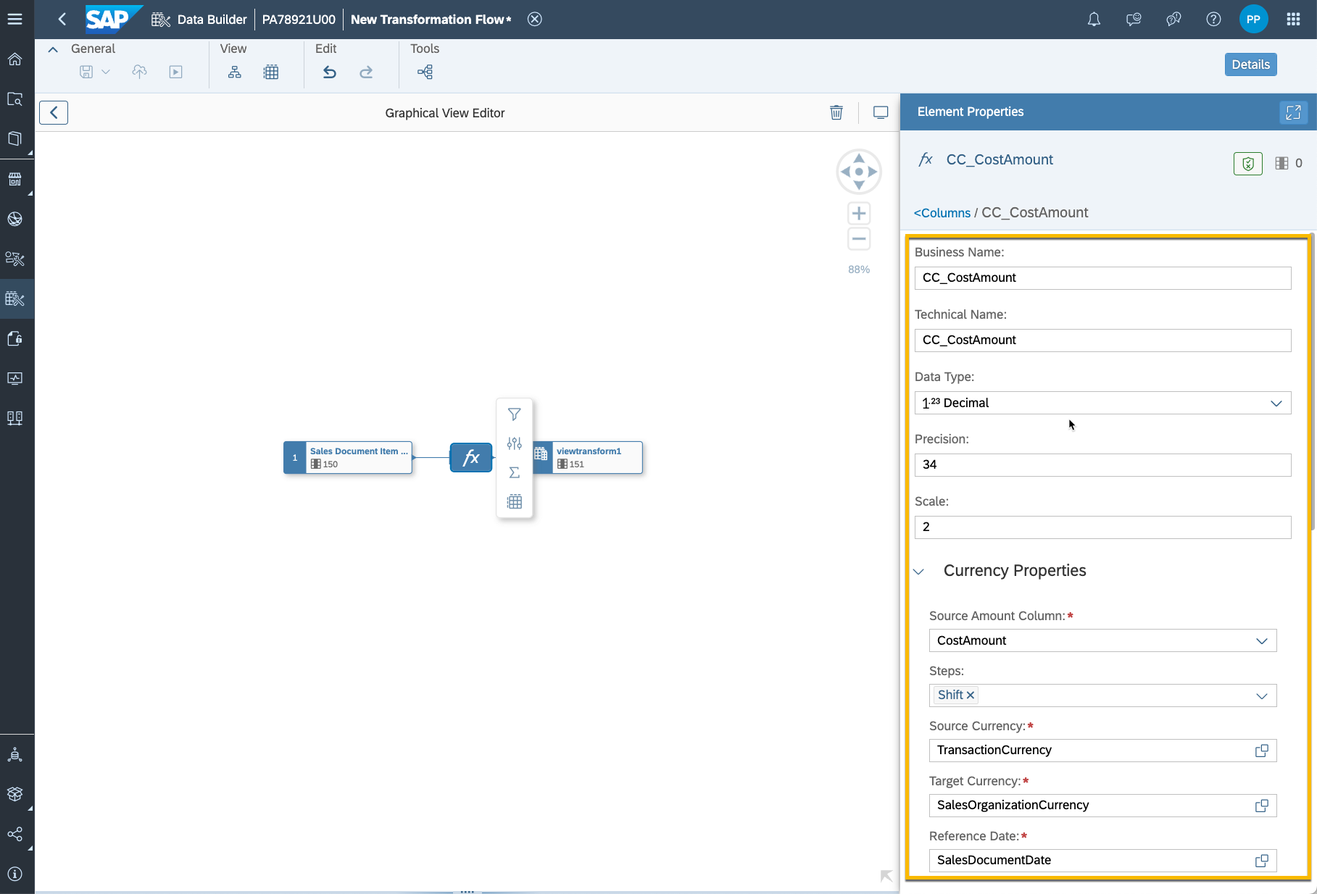
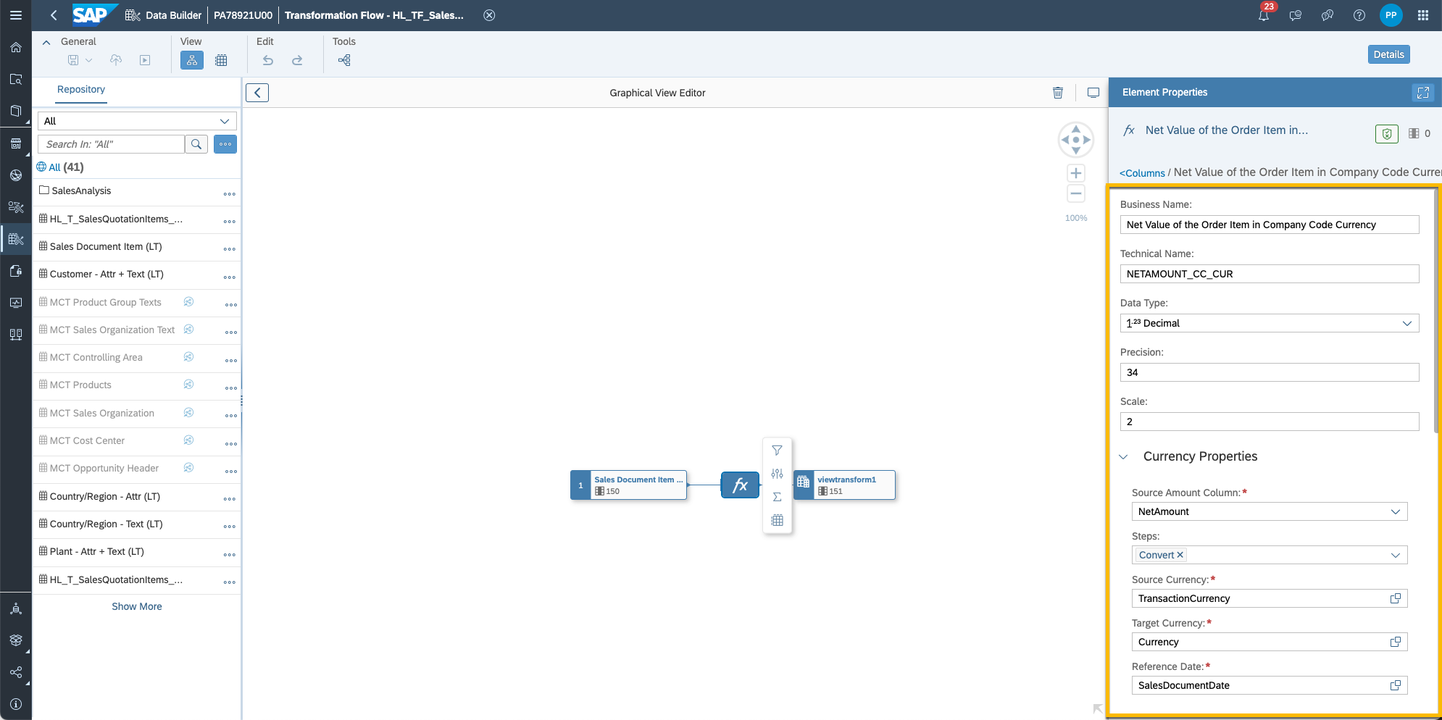
moving from internal

diff --git a/tutorials/partner-workshop-content/dsp_modeling_2-create-relationships/dsp_modeling_2-create-relationships.md b/tutorials/partner-workshop-content/dsp_modeling_2-create-relationships/dsp_modeling_2-create-relationships.md
@@ -36,7 +36,7 @@ A data model is a way to organise the data and define the relationship between t
     ![ER Model Icon](./images-dsp_modeling_2-create-relationships/DS_Create_ER_Model.png)
 
 2.	This takes you into the graphical modelling interface. Since you have imported the sample data manually via CSV, your data can be found under the **Repository** tab
-3.	Click and drag the tables `T_SalesOrders_<USER_ID>`, `T_SalesOrderItems_<USER_ID>`, `T_BusinessPartners_<USER_ID>` and `T_Addresses_<USER_ID>` onto the canvas
+3.	Click and drag the tables `T_SalesOrders`, `T_SalesOrderItems`, `T_BusinessPartners` and `T_Addresses` onto the canvas
 
     ![SalesOrder and SalesOrderItems](./images-dsp_modeling_2-create-relationships/DS_Import_Tables.png)
 
@@ -44,7 +44,7 @@ A data model is a way to organise the data and define the relationship between t
 
 ### Adjust Semantic Types
 
-1. Each entity (tables and views) have a property called `Semantic Usage`. This property is used to indicate the type of data contained in the entity. Select the table `T_SalesOrderItems_<USER_ID>` and set the Semantic Usage to `Fact`. This indicates that your entity contains numerical measures that can be analyzed.
+1. Each entity (tables and views) have a property called `Semantic Usage`. This property is used to indicate the type of data contained in the entity. Select the table `T_SalesOrderItems` and set the Semantic Usage to `Fact`. This indicates that your entity contains numerical measures that can be analyzed.
 2. Drag the measures `GROSSAMOUNT`, `NETAMOUNT`, `TAXAMOUNT` and `QUANTITY` from the **Attributes** section into the **Measures** section
 
   ![SalesOrders_MeasuresAndAttributes](./images-dsp_modeling_2-create-relationships/DS_SO_Items.png)
@@ -57,7 +57,7 @@ A data model is a way to organise the data and define the relationship between t
 
   ![SalesOrders_SemanticTypes_Attributes](./images-dsp_modeling_2-create-relationships/DS_SO_Items_Measures.png)
 
-5. Set the `Semantic Usage` of the table `T_SalesOrders_<USER_ID>` to `Fact`
+5. Set the `Semantic Usage` of the table `T_SalesOrders` to `Fact`
 
 6. Specify `GROSSAMOUNT`, `NETAMOUNT`, `TAXAMOUNT` as measures
 
@@ -74,11 +74,11 @@ A data model is a way to organise the data and define the relationship between t
 
     ![BusinessPartners](./images-dsp_modeling_2-create-relationships/DS_BP_Key.png)
 
-11. Adjust the semantic type of `T_Addresses_<USER_ID>` to `Dimension`
+11. Adjust the semantic type of `T_Addresses` to `Dimension`
 
 12. Set `ADDRESSID` as key attribute 
 
-13. Save and deploy the entities of E/R Model by clicking the according buttons in the upper left corner. Set the technical name to `ER_Sales_<USER_ID>`. When saving entities in Datasphere, they are stored as design-time definition. Deploying an entity creates a run-time version
+13. Save and deploy the entities of E/R Model by clicking the according buttons in the upper left corner. Set the technical name to `ER_Sales`. When saving entities in Datasphere, they are stored as design-time definition. Deploying an entity creates a run-time version
 
   ![Deploy E/R Model](./images-dsp_modeling_2-create-relationships/DS_ER_Deploy.png)
 
@@ -87,27 +87,27 @@ A data model is a way to organise the data and define the relationship between t
 Associations are created and maintained in the E/R model editor, in the table editor or in the graphical view/SQL editor. As we are modifying associations between multiple tables, we will use the E/R model editor.
 They are used to e.g. associate master data, text or time objects to fact data.
 
-1. Click on the `T_SalesOrders_<USER_ID>` table and then click on the **Create Association** arrow icon
+1. Click on the `T_SalesOrders` table and then click on the **Create Association** arrow icon
 
-2.	Drag it over to the `T_SalesOrderItems_<USER_ID>` table to create an association between the two tables
+2.	Drag it over to the `T_SalesOrderItems` table to create an association between the two tables
 
 3.	Ensure that the created association is between the columns `SALESORDERID` in the **Association Properties** panel
 
-4.	Drag and drop to connect the sales column from one table to the other if it's not done already
+4.	Drag and drop to connect the `SALESORDERID` column from one table to the other if it's not done already
 
      ![Associations](./images-dsp_modeling_2-create-relationships/DS_SO_Associations.png)
 
-5.	Next, create an association from `T_SalesOrders_<USER_ID>` to `T_BusinessPartners_<USER_ID>` using the `PARTNERID` column. `T_BusinessPartners_<USER_ID>`  contains information on Best-Run Bikes customers, which is useful when connected to the sales data
+5.	Next, create an association from `T_SalesOrders` to `T_BusinessPartners` using the `PARTNERID` column. `T_BusinessPartners`  contains information on Best-Run Bikes customers, which is useful when connected to the sales data
 
     ![BusinessPartners Table](./images-dsp_modeling_2-create-relationships/DS_SO_BP_Association.png)
 
-6.	Now create an association between the `T_BusinessPartners_<USER_ID>` and `T_Addresses_<USER_ID>` tables using the `ADDRESSID` column (drag the association from `T_BusinessPartners_<USER_ID>` to `T_Addresses_<USER_ID>`)
+6.	Now create an association between the `T_BusinessPartners` and `T_Addresses` tables using the `ADDRESSID` column (drag the association from `T_BusinessPartners` to `T_Addresses`)
 
     ![AddressID Association](./images-dsp_modeling_2-create-relationships/DS_BP_AD_Association.png)
 
 
 ### Create Hierarchy for Addresses
-1. Select the hierarchy table `T_Addresses_<User_Id>`and click on the **Hierarchy** Icon on the right side.
+1. Select the hierarchy table `T_Addresses`and click on the **Hierarchy** Icon on the right side.
    
    ![Hierarchies](./images-dsp_modeling_2-create-relationships/DS_Hierarchy.png)
    
@@ -120,20 +120,22 @@ After creating associations between the imported data entities, add an associati
 
 1. Drag the view `Time Dimension - Day`(`SAP.TIME.VIEW_DIMENSION_DAY`) onto the modelling canvas and view the properties. This generated dimension includes different predefined hierarchies
 
-    ![Time Dimension](./images-dsp_modeling_2-create-relationships/DS_TimeDimensionDay.png)
-
-2. Have a look at the properties of the table `Time Dimension - Day`(`SAP.TIME.VIEW_DIMENSION_DAY`) dragged into the editor. In the **Association** section, different associations to text entities are displayed. Have a look at the associated table `Translation Table - Day `and open it in a new tab. A entity with the semantic usage `Text` must to have one identifier , one language identifier and one text attribute. Open the data preview to see the data records. Keep the table as it is generated.
-
-    ![Time Dimension Text](./images-dsp_modeling_2-create-relationships/DS_TimeDimensionDay_Text.png)
-
-3. Return to your Entity-Relationship Model. Create an association from the column `CREATEDAT` of `T_SalesOrders_<USER_ID>` to `Date` of `Time Dimension - Day`(`SAP.TIME.VIEW_DIMENSION_DAY`). Validate using the data preview that the date format of the two columns is the same as this is required for the mapping
+  ![Time Dimension](./images-dsp_modeling_2-create-relationships/DS_TimeDimensionDay.png)
+    
+2. Create an association from the column `CREATEDAT` of `T_SalesOrders` to `Date` of `Time Dimension - Day`(`SAP.TIME.VIEW_DIMENSION_DAY`). Validate using the data preview that the date format of the two columns is the same as this is required for the mapping
    
   ![Time Dimension Association](./images-dsp_modeling_2-create-relationships/DS_TimeDimensionDay_Association.png)
- 
 
+3. Have a look at the properties of the table `Time Dimension - Day`(`SAP.TIME.VIEW_DIMENSION_DAY`) dragged into the editor. In the **Association** section, different associations to text entities are displayed. Have a look at the associated table `Translation Table - Day `and open it in a new tab. An entity with the semantic usage `Text` must to have one identifier , one language identifier and one text attribute. Open the data preview to see the data records. Keep the table as it is generated.
+
+  ![Time Dimension Text](./images-dsp_modeling_2-create-relationships/DS_TimeDimensionDay_Text.png)
+
+> **_HINT:_**  The last point may be useful for an optional exercise later on!
 
 ### Save and deploy
 
 Save and deploy your Entity-Relationship Model again to activate the recent changes (e.g. associations).
+
+> **_NOTE:_**  If there are 2 warnings at this point on the `Time Dimension - Day`(`SAP.TIME.VIEW_DIMENSION_DAY`) View, they can be ignored and the ER model can be saved and deployed using the `Save Anyway` and `Deploy Anyway` buttons. These are known warnings and will be fixed in an upcoming release.
 
 ---

diff --git a/tutorials/partner-workshop-content/dsp_sales_analysis_1-s4-integration/dsp_sales_analysis_1-s4-integration.md b/tutorials/partner-workshop-content/dsp_sales_analysis_1-s4-integration/dsp_sales_analysis_1-s4-integration.md
@@ -1,6 +1,8 @@
 # Integrate S/4HANA Data for Sales Analysis in SAP Datasphere
-Your company would like to analyze sales quotations on data available in SAP S/4HANA. Using SAP Datasphere allows users to easily customize and extend the data model based on the needs of the end-user.
-This exercise shows how business content helps to jump start your project and how to integrate data from S/4HANA using Replication Flows. 
+Overall Intoduction to Sales Analysis exercise: Your company would like to grow their business in a particular subsidiary. However, there have been reports that the products are being quoted lower than in other locations. For this reason, your company wants to analyze the Sales quotation data.
+This data is available in SAP S4/HANA. Using the integration capabilities of SAP Datasphere, we will bring in the data and analyze it to derive the maximum business value. We will further integrate this data with geographical data from Data marketplace to provide the location context to it. Finally, the model from the business content with our own S4/HANA data will be visualized in an SAC story. We will learn how using SAP Datasphere allows users to easily customize and extend the data model based on the needs of the end-user.  
+
+In this exercise, you will learn one example of how business content helps to jump start your project and how to integrate data from S/4HANA using Replication Flows. By merely replicating the S4/HANA data into the already existing business content, we can already lay down the foundation for thorough analysis of the data.
 
 ## Prerequisites
 - You have an application user in Datasphere which is assigned to a space. 
@@ -14,15 +16,15 @@ This exercise shows how business content helps to jump start your project and ho
 ---
 ## Import Data Model
 
-Business content for SAP Datasphere offers ready to run pre-configurations that jump start and accelerate your project.
+Business content for SAP Datasphere offers ready to run pre-configurations that accelerate the progress of your project.
 It is available as part of the application `Semantic Onboarding`. This exercise will use a part of the business content "Sales Analysis for SAP S/4HANA and SAP S/4HANA Cloud". 
 
 Some modifications applied to the content, for example we use an input parameter instead of taking the current date as we are not working with productive, up-to date data in this example.
 Instead of importing this content via the Content Network, each user imports the data model as CSN in their own space.
 
-1. Download the CSN file `CSN_SalesAnalysis_Workshop.json` from the folder data_model-dsp_sales_anysis_1 (tbd - link). 
+1. Download the CSN file [CSN_SalesAnalysis_Workshop.json](https://sap-my.sharepoint.com/:u:/p/nikola_cornelia_braukmueller/EatQ1ELi0UVLojzocnvykesBGGkNdtgef1iE-QIYKENN0Q?e=oLkFLT).
 
-2. **Before importing this file**, open the CSN file in a text editor of your choice. As the CSN document contains references to the space itself for the currency conversion, please search and replace `XXSPACEXX` with your space name. This step is very important so that the currency conversion calculation uses the correct entities.
+2. **Before importing this file**, open the CSN file in a text editor of your choice. This CSN document contains references to the space (including a specific space name) for the currency conversion, please search and replace `XXSPACEXX` with your space name. This step is very important so that the currency conversion calculation uses the correct entities.
 
 3. Import the modified file to your space in Datasphere.
     ![Download and import CSN](./images-dsp_sales_analysis_1-s4-integration/DSP_IMPORT_CSN.png)
@@ -32,6 +34,14 @@ Instead of importing this content via the Content Network, each user imports the
     ![Exclude entities (CSN)](./images-dsp_sales_analysis_1-s4-integration/DSP_ImportCSN_All.png)
 
 5. After import, the entities are not deployed automatically. Open the Analytic Model `Sales Quotation Item (RL)` (`SAP_SD_RL_SalesQuotationItm_V2`) and select `Deploy`. This will deploy the Analytic Model as well as all dependent entities you imported before.
+
+The abbreviations in the entity names have the following meanings:
+- `IL` - Inbound Layer
+- `HL` - Harmonization Layer
+- `RL` - Reporting Layer
+- `LT` - Local Table
+
+More details on the layered modeling approach and naming conventions are available [here](https://www.sap.com/documents/2021/09/8a0fc7ca-f67d-0010-bca6-c68f7e60039b.html). 
 
 ## Generate Currency Conversion Views
 To run currency conversion, specific entities need to be available in the space. Currency conversion views and the necessary supporting objects can be created based on an SAP connection, tables shared from another space, or manually.
@@ -53,7 +63,7 @@ As part of the workshop, the currency information has been imported into a centr
 ## Create Replication Flow
 The imported content includes local tables in the inbound layer, which are designed to be filled using Replication Flows. It is customer specific, how a Replication Flow will be designed, which CDS views should be replicated in one Replication Flow and which data should be replicated with a delta or which with the full upload option.
 
-In general: There are some prerequisites for the usage of Replications Flows, for example the CDS View needs to have the "dataExtraction" annotation. To replicate the CDS View in a delta mode, the annotations "dataExtraction" and "changeDataCapture" are required. More information is available in Note 3223810 and Note 2890171 (focus on ABAP Integration).
+In general: There are some prerequisites for the usage of Replications Flows, for example the CDS View needs to have the "dataExtraction" annotation. To replicate the CDS View in a delta mode, the annotations "dataExtraction" and "changeDataCapture" are required. More information is available in [Note 3223810](https://me.sap.com/notes/3223810/E) and [Note 2890171](https://me.sap.com/notes/2890171/E) (focus on ABAP Integration).
 
 In this part of the exercise, the Replication Flow extracts transactional data from the CDS view `C_SALESDOCUMENTITEMDEX_1`to the local table `SAP_SD_IL_C_SALESDOCUMENTITEMDEX_1` and master data from the CDS view `I_CUSTOMER` to the local table `SAP_LO_IL_I_CUSTOMER`.
 
@@ -93,7 +103,7 @@ In this part of the exercise, the Replication Flow extracts transactional data f
 
     ![RF - Filter](./images-dsp_sales_analysis_1-s4-integration/DSP_Create_RF_Filter_1.png)
 
-10. Define a filter to limit the scope of your replication flow to reduce the load for the exercise. Set the following filter for CreationDate: `CreationDate < 2021-12-08` and name the projection `Filter_CreationDate`. tbd !adjust screenshot
+10. Define a filter to limit the scope of your replication flow to reduce the load for the exercise. Set the following filter for SalesOrganization: `SalesOrganization = '1710'` and name the projection `Filter_SalesOrg`.  
 
     ![RF - Filter](./images-dsp_sales_analysis_1-s4-integration/DSP_Create_RF_Filter.png)
 
@@ -143,3 +153,6 @@ Let's have a look at the lineage of the Analytic Model you imported as part of t
 
 1. Open the Analytic Model `Sales Quotation Item (RL) (SAP_SD_RL_SalesQuotationItm_V2)` and select the data preview.
 2. Confirm that the variable `Quotation Expiry Period (Days)` is set to 50, `Sales Organization` & `Company Code` to 1710 and 1710.
+3. Select the dimension `Sold-to Party` and the measure `No. of Open Sales Quotation Items`.
+
+    ![Analytic Model - Data Preview](./images-dsp_sales_analysis_1-s4-integration/DSP_AM_DataPreview.png)

diff --git a/tutorials/partner-workshop-content/dsp_sales_analysis_3-transformation_flows/dsp_sales_analysis_3-transformation_flows.md b/tutorials/partner-workshop-content/dsp_sales_analysis_3-transformation_flows/dsp_sales_analysis_3-transformation_flows.md
@@ -1,6 +1,13 @@
 # Transformation Flows in SAP Datasphere
-Transformation Flows in SAP Datasphere enables performing SQL transformations on delta and non-delta data.
-They support various SQL-based transformations (for example, joins, aggregations, functions, calculated columns...).
+In the previous exercises, we integrated data from S/4HANA and the Data Marketplace using business content to extract more business value from our data. We have answered the question “Which regions provide the highest sales opportunities for our company?”
+
+In this exercise, we would like to convert the net value of the order item to the sales organization's company currency. This would help us represent the net value of the order item from the sales organization's perspective for all future representations and comparisons.
+i.e. Take for example that one of the sales wings in Bulgaria would like to compare the selling values of the sales orders. It would be difficult to compare it in the when the transaction currency is always different. Converting it to the selling organization's currency will increase transparency for that organization.
+This is how it will be achieved in this exercise: You will create a transformation flow which loads data from the delta enabled table `Sales Document Item (LT) (SAP_SD_IL_C_SALESDOCUMENTITEMDEX_1)`, transforms the currency for `Net Value of the Order Item` applying a currency conversion and persists the data in a target table.
+We want to use the static value `SalesDocumentDate` as the reference date. Hence, the currency needs to be transformed only once in its lifetime. Fluctuating currency rates are irrelevant for this scenario.
+
+In the business content that you imported earlier, the fact view `Sales Document Item (HL) (SAP_SD_HL_SalesDocumentItem_V2)` uses a calculated column to transform the source amount column `Net Value of the Order Item` from the document currency to the sales Organization currency. This transformation runs each time the view is called by a user (e.g. via the Analytic Model in DSP or in a story in SAC). 
+The view could be persisted, but the persistency would always run as a full snapshot replication. Hence, transformation flows suit best for the scenario in this exercise since they perform SQL transformations on delta data, and this transformation will only run once for new records.
 
 
 ## Prerequisites
@@ -23,15 +30,15 @@ Create a transformation flow to load data from one or more source tables, apply 
 
     ![Transformation Flow - Graphical View Transform](./images-dsp_sales_analysis_3-transformation_flows/DSP_TF_GV_Transform.png)
 
-3. Now you are in the **Graphical View Editor**.  
+3. Now you are in the **Graphical View Editor**. Search for the local table `Sales Document Item (LT)` (`SAP_SD_IL_C_SALESDOCUMENTITEMDEX_1_Delta`) and drag it into the editor.
 
    ![Transformation Flow - Source Table](./images-dsp_sales_analysis_3-transformation_flows/DSP_TF_SourceTable.png)
 
-4. You have various different possibilities to add nodes for transformations to this view. To demonstrate the functionality of the transformation flow, create a new `Currency Conversion` Column.
+4. You have various different possibilities to add nodes for transformations to this view. Create a new `Currency Conversion` Column.
 
    ![Transformation Flow - Source Table](./images-dsp_sales_analysis_3-transformation_flows/DSP_TF_CC.png)
 
-5. Name the new column `CC_CostAmount`. In **Currency Properties**, set source amount to `CostAmount`, steps to `Shift`, source currency to `TransactionCurrency`, target currency to `SalesOrganizationCurrency`and reference date to `SalesDocumentDate`. We calculate the converted source amount for new records added to the source table.
+5. Name the new column `Net Value of the Order Item in Company Code Currency` (business name) and `NETAMOUNT_CC_CUR` (technical name). In **Currency Properties**, set source amount to `NetAmount` (this is the net value of the order item in document currency), steps to `Convert`, source currency to `TransactionCurrency`, target currency to `Currency`and reference date to `SalesDocumentDate`. We calculate the converted source amount for new records added to the source table.
 
     ![Transformation Flow - Source Table](./images-dsp_sales_analysis_3-transformation_flows/DSP_TF_CC_1.png)
 

diff --git a/tutorials/partner-workshop-content/dsp_modeling_4-create-analytic-model/dsp_modeling_4-create-analytic-model.md b/tutorials/partner-workshop-content/dsp_modeling_4-create-analytic-model/dsp_modeling_4-create-analytic-model.md
@@ -20,15 +20,15 @@ Analytic models are the analytical foundation for making data ready for consumpt
 
     ![Data Builder Analytic Model](./images-dsp_modeling_4-create-analytic-model/DS_DataBuilder_AM.png)
 
-2. In the editor, you can add any Fact Model as fact source. Select your previous created graphical view `V_SalesOrderDetails_<USER_ID>` and drag it into the edtior. Select all attributes, all measures and the proposed associated dimension to be added to the Analytic Model.
+2. In the editor, you can add any Fact Model as fact source. Select your previous created graphical view `V_SalesOrderDetails` and drag it into the editor. Select all attributes, all measures and the proposed associated dimension to be added to the Analytic Model.
    
   ![Data Builder Analytic Model](./images-dsp_modeling_4-create-analytic-model/DS_AM_CopyProperties.png)
   
-4. The fact source and the dimensions for business partners are displayed. Now, add additional reachable dimensions and their attributes. Select the dimension `PARTNERID` (`T_BusinessPartners_<USER_ID>`) and select `ADDRESSID` in the section **Associated Dimensions**.
+4. The fact source and the dimensions for business partners are displayed. Now, add additional reachable dimensions and their attributes. Select the dimension `PARTNERID` (`T_BusinessPartners`) and select `ADDRESSID` in the section **Associated Dimensions**.
 
     ![Data Builder Analytic Model](./images-dsp_modeling_4-create-analytic-model/DS_AM_Dimension.png)
 
- 5. When accessing this data model, Datasphere will automatically create the necessary database joins to let users drill-down by even the farthest of dimensions. This way, modelers can carefully design what parts of the data model to expose for a given analytics use case. Check that the attributes `CITY`, `COUNTRY` and `REGION` are selected as visible attributes by clicking on the dimension `ADDRESSID` (`T_ADDRESSES_<USER_ID>`).
+ 5. When accessing this data model, Datasphere will automatically create the necessary database joins to let users drill-down by even the farthest of dimensions. This way, modelers can carefully design what parts of the data model to expose for a given analytics use case. Check that the attributes `CITY`, `COUNTRY` and `REGION` are selected as visible attributes by clicking on the dimension `ADDRESSID` (`T_ADDRESSES`).
 
     ![Data Builder Analytic Model](./images-dsp_modeling_4-create-analytic-model/DS_AM_Address.png)
 
@@ -49,7 +49,7 @@ Enter the expression `QUANTITY > 10`. This expression will return the boolean va
 
     ![Calculated Measure - Quantity](./images-dsp_modeling_4-create-analytic-model/DS_CM_Quantity.png)
 
-11. As the measure should reflect the number of product types with a quantity higher than 10, a specific aggregation by PRODUCT ID is required. Configure an Exception Aggregation with type `SUM` and the Exception Aggregation Dimension `PRODUCTID`. Now, all results of the defined expression are summed up by the Product ID even if the Product ID is not selected in a report and visible in the drill-down.
+11. The measure should reflect the number of product types with a quantity higher than 10. Therefore, a specific aggregation by PRODUCT ID is required. Configure an Exception Aggregation with type `SUM` and the Exception Aggregation Dimension `PRODUCTID`. Now, all results of the defined expression are summed up by the Product ID even if the Product ID is not selected in a report and visible in the drill-down.
     
   ![Calculated Measure - Quantity](./images-dsp_modeling_4-create-analytic-model/DS_ExceptionAggregation.png)
 
@@ -59,7 +59,7 @@ Enter the expression `QUANTITY > 10`. This expression will return the boolean va
 
 13. Validate the two new measures in the data preview. 
 
-14. Save and deploy your Analytic Model using the technical name `AM_SalesReport_<USER_ID>`.
+14. Save and deploy your Analytic Model using the technical name `AM_SalesReport`.
 
 
 

diff --git a/tutorials/partner-workshop-content/dsp_modeling_6-define-data-access-control/dsp_modeling_6-define-data-access-control.md b/tutorials/partner-workshop-content/dsp_modeling_6-define-data-access-control/dsp_modeling_6-define-data-access-control.md
@@ -50,7 +50,7 @@ For the sake of simplicity, in this exercise, we will create a table manually in
 
     ![New Permission Table](./images-dsp_modeling_6-define-data-access-control/DS_DAC_TableConfiguration.png)
 
-6. Click on the **Save** icon on the top left and give your table an appropriate name, `T_Permissions<USER_ID>`.  Once done, click on the **Deploy** icon next to the **Save** icon to deploy your table.
+6. Click on the **Save** icon on the top left and give your table an appropriate name, `T_Permissions`.  Once done, click on the **Deploy** icon next to the **Save** icon to deploy your table.
 
 ### Populate the newly created table
 
@@ -82,7 +82,7 @@ You have successfully created a new entry on the table that will be used to filt
 
 ### Create New Data Access Control
 
-Now that the **Permission table** `T_Permissions<USER_ID>` has been defined and populated, a new Data Access Control can be defined.
+Now that the **Permission table** `T_Permissions` has been defined and populated, a new Data Access Control can be defined.
 
 1. Go to the **Data Access Controls** and click on the **New Data Access Control** button. 
 
@@ -92,7 +92,7 @@ Now that the **Permission table** `T_Permissions<USER_ID>` has been defined and 
 
     ![New Permission Table](./images-dsp_modeling_6-define-data-access-control/DS_DAC_PermissionEntitySearch.png)
 
-3. Use the **Search** bar to find the previously created table `T_Permissions_<USER_ID>`, and **select** it. Then check the boxes besides the columns that contain the criteria values. Once done, click **Select**.
+3. Use the **Search** bar to find the previously created table `T_Permissions`, and **select** it. Then check the boxes besides the columns that contain the criteria values. Once done, click **Select**.
 
     ![New Permission Table](./images-dsp_modeling_6-define-data-access-control/DS_DAC_PermissionEntitySelection.png)
 
@@ -105,13 +105,13 @@ Now that the **Permission table** `T_Permissions<USER_ID>` has been defined and 
     ![New Permission Table](./images-dsp_modeling_6-define-data-access-control/DS_DAC_PermissionEntityAddCriteria.png)
     ![New Permission Table](./images-dsp_modeling_6-define-data-access-control/DS_DAC_PermissionEntityAddCriteria2.png)
 
-6. Click on the **Save** icon on the top right and give your data access control an appropriate name, `DAC_SalesOrg_Product_<USER_ID>`.  Once done, click on the **Deploy** icon next to the **Save** icon to deploy your data access control.
+6. Click on the **Save** icon on the top right and give your data access control an appropriate name, `DAC_SalesOrg_Product`.  Once done, click on the **Deploy** icon next to the **Save** icon to deploy your data access control.
 
 ### Add Data Access Control to View
 
-Now that you have created the **Data Access Control**, you need to create a data access control restriction on top of the previously created view [V_SalesOrderDetails_<USER_ID>](../dsp_modeling_6-define-data-access-control/dsp_modeling_6-define-data-access-control.md).
+Now that you have created the **Data Access Control**, you need to create a data access control restriction on top of the previously created view [V_SalesOrderDetails](../dsp_modeling_6-define-data-access-control/dsp_modeling_6-define-data-access-control.md).
 
-1. Go to the **Data Builder** and open `V_SalesOrderDetails_<USER_ID>` view. 
+1. Go to the **Data Builder** and open `V_SalesOrderDetails` view. 
 
     ![New Permission Table](./images-dsp_modeling_6-define-data-access-control/DS_DAC_OpenView.png)
 

diff --git a/tutorials/partner-workshop-content/README.md b/tutorials/partner-workshop-content/README.md
@@ -11,12 +11,12 @@ You have
 ## Use case: Best Run Bikes
 
 Best Run Bikes is an organization which sells bikes. It has offices spread across the world. The organization would like to focus on improving in a few departments. 
-Improving sales and employee satisfaction are of paramount importance to the company. Post Covid era is still a challenging time for the organization as a whole.
+Improving sales is a primary goal for the company post the pandemic.
 
 In the exercises, we will help Best Run Bikes to:
 1. gain an overview of the products sold so that they can plan the future inventory
 2. gain an overview of revenue in EMEA in order to improve sales
-3. gain an overview of employee morale in the post covid times using employee survey data
+3. gain an overview of sales quotations in a particular subsidiary to expand the business there
 
 
 ### Part 1: Focuses on Modelling
@@ -33,10 +33,9 @@ We will learn how to enrich exisiting business data by integrating data from oth
 - [Create a Graphical View](./dsp_modeling_3-create-graphical-view/dsp_modeling_3-create-graphical-view.md)
 - [Create an Analytic Model](./dsp_modeling_4-create-analytic-model/dsp_modeling_4-create-analytic-model.md)
 - [Create an SAP Analytics Cloud Story](./dsp_modeling_5-create-sac-story/dsp_modeling_5-create-sac-story.md)
-- [Connect to HANA Cloud and access Data](./dsp_integration_1-connect_to_hana_cloud_access_data/dsp_integration_1-connect_to_hana_cloud_access_data.md)
-- [Connect to a SuccessFactors instance](./dsp_integration_2-connect_sf/dsp_integration_2-connect_sf.md)
-- [Import data from SuccessFactors instance](./dsp_integration_2-connect_sf/dsp_integration_3-import_sf_data.md)
-- [Import data from Data Marketplace](./dsp_integration_4-data-marketplace/dsp_integration_4-data-marketplace)
-- [Build and Improve the Data Model](./dsp_integration_5-build_data_model/dsp_integration_5-build_data_model.md)
-- [Create an SAP Analytics Cloud Story on Extended Model](./dsp_integration_6-create-sac-story/dsp_integration_6-create-sac-story.md)
+- [Create a Data Access Control](./dsp_modeling_6-define-data-access-control/dsp_modeling_6-define-data-access-control.md)
+- [Integrate S/4HANA Data for Sales Analysis](./dsp_sales_analysis_1-s4-integration/dsp_sales_analysis_1-s4-integration.md)
+- [Acquiring a Data Product from the Data Marketplace](./dsp_sales_analysis_2-data-marketplace/dsp_sales_analysis_2-data-marketplace.md)
+- [Create a Transormation Flow](./dsp_sales_analysis_3-transformation_flows/dsp_sales_analysis_3-transformation_flows.md)
+
 

diff --git a/tutorials/partner-workshop-content/dsp_modeling_1-import-dataset/dsp_modeling_1-import-dataset.md b/tutorials/partner-workshop-content/dsp_modeling_1-import-dataset/dsp_modeling_1-import-dataset.md
@@ -41,15 +41,17 @@ Alternatively, all the dataset files can be found [here](../dsp_modeling_1-impor
 
 3.  Quickly review your data and then click deploy once done
 
-4.  Give the table a technical name(`T_<SalesOrders/SalesOrderItems/Addresses/BusinessPartners>_<YOUR_USER_ID>`) and a business name and then wait whilst the table is deployed
+4.  Give the table a technical name (`T_SalesOrders`,`T_SalesOrderItems`,`T_Addresses`, `T_BusinessPartners`) and a business name and then wait whilst the table is deployed
 
 5.  You can then add your remaining CSV files by repeating the process
 
     ![Deploy CSV](./images-dsp_modeling_1-import-dataset/DS_Deploy_Adresses.png)
 
 ### Generate Time Data
+
 Time table and dimensions views can be created in a space to provide standardized time data for you analysis. 
-1. Go to the section **Time Data** in **Space Management**. If you see **Create Time Tables & Dimensions** (as displayed in the screenshot), continue with step 2 and 3 as no time data has been generated fro the space yet. If time data has already been generated, select the pencil icon to see more details on the configuration. 
+1. Go to the section **Time Data** in **Space Management**.
+> **_NOTE:_** As part of your workshop, you may have been provided with a space that already have the time data added. In this case, you can just select the pencil icon if you want to see more details on the configuration.  If the time data is missing in your space, please proceed with the next part to add it. i.e. If you see **Create Time Tables & Dimensions** (as displayed in the screenshot), continue with step 2 and 3 as no time data has been generated from the space yet. 
    
   ![Time Dimensions Generation](./images-dsp_modeling_1-import-dataset/DS_CreateTimeTablesAndDimensions.png)
   

diff --git a/tutorials/partner-workshop-content/dsp_sales_analysis_2-data-marketplace/dsp_sales_analysis_2-data-marketplace.md b/tutorials/partner-workshop-content/dsp_sales_analysis_2-data-marketplace/dsp_sales_analysis_2-data-marketplace.md
@@ -40,7 +40,7 @@ We would like to enrich our data for customers with the geographical coordinates
 
     ![Data Marketplace](./images-dsp_sales_analysis_2-data-marketplace/DSP_GrView_Join.png)
 
-2. Select `Left` as join type so that all rows from `SAP_LO_Customer_V2` are returned with the matched rows from `Country_Master_Data_by_DCA`. The columns that have to be joined are `Country/Region Key` to `Alpha-2 code`
+2. Select `Left` as join type so that all rows from `SAP_LO_Customer_V2` are returned with the matched rows from `Country_Master_Data_by_DCA`. The columns that have to be joined are `Country/Region Key` to `Alpha-2 code` (not `Country` from `Country_Master_Data_by_DCA`). Please maintain the cardinality as displayed in the screenshot.
 
     ![Data Marketplace](./images-dsp_sales_analysis_2-data-marketplace/DSP_Configure_Join.png)
 
@@ -73,7 +73,11 @@ We would like to enrich our data for customers with the geographical coordinates
 
     ![SAC - Switch](./images-dsp_sales_analysis_2-data-marketplace/SAC_GeoMap.png)
 
-4. Select the Datasphere connection, your space and the Analytic Model `SAP_SD_RL_SalesQuotationItm_V2`.
+4. Select a model.
+
+    ![Select Model](./images-dsp_sales_analysis_2-data-marketplace/SAC_SelectModel.png)
+
+4. Select the Datasphere connection, your space and the Analytic Model `SAP_SD_RL_SalesQuotationItm_V2`. (Input Parameters: `Quotation Expiry Period (Days)` = 50, `Sales Organization` & `Company Code` = 1710)
 
     ![SAC - Add Chart](./images-dsp_sales_analysis_2-data-marketplace/DSP_SAC_AddChart.png)
 

diff --git a/tutorials/partner-workshop-content/dsp_modeling_5-create-sac-story/dsp_modeling_5-create-sac-story.md b/tutorials/partner-workshop-content/dsp_modeling_5-create-sac-story/dsp_modeling_5-create-sac-story.md
@@ -19,7 +19,7 @@ SAP Analytics Cloud consumes data from SAP Datasphere via a live connection to c
 
   ![SAC Story Creation](./images-dsp_modeling_5-create-sac-story/DS_SAC_Switch.png)
 
-2. In SAP Datasphere, the URL of the SAC system needs to be added as a Trusted Origin. 
+2. In SAP Datasphere, the URL of the SAC system needs to be added as a Trusted Origin. This has already been done for this tenant.
 
 2. In SAP Analytics Cloud, a live connection has been created so that data from SAP Datasphere can be accessed. You can validate this in the **Connections**.
 
@@ -33,7 +33,7 @@ SAP Analytics Cloud consumes data from SAP Datasphere via a live connection to c
 
     ![SAC Story Creation](./images-dsp_modeling_5-create-sac-story/DS_SAC_InsertChart.png)
 
-3. Select the connected Datasphere tenant. You see all spaces your Datasphere application user is allowed to access. Select your space and the Analytic Model which you created in the previous exercise.
+3. Select the connected Datasphere tenant (in the workshop, select the connection named `Datasphere`). You see all spaces your Datasphere application user is allowed to access. Select your space and the Analytic Model which you created in the previous exercise.
 
     ![SAC Story Creation](./images-dsp_modeling_5-create-sac-story/DS_SAC_SelectModel.png)
 

diff --git a/tutorials/partner-workshop-content/dsp_hc_federation_1/dsp_hc_federation_1-trainer_instructions.md b/tutorials/partner-workshop-content/dsp_hc_federation_1/dsp_hc_federation_1-trainer_instructions.md
@@ -67,3 +67,13 @@ CREATE USER HC_PARTNER PASSWORD "SETPASSWORD" NO FORCE_FIRST_PASSWORD_CHANGE;
 GRANT SELECT ON SCHEMA DSP_WORKSHOP_GASPRICES TO HC_PARTNER;
 ALTER USER HC_PARTNER REVOKE CREATE ANY ON OWN SCHEMA;
 ```
+
+### Deactive "lock" mechanism for technical user
+
+```
+-- create user group
+CREATE USERGROUP UnlockableUser SET PARAMETER 'password_lock_time' = '0' ENABLE PARAMETER SET 'password policy';
+
+-- assign user group to user
+ALTER USER HC_PARTNER SET USERGROUP UnlockableUser;
+```

diff --git a/tutorials/README.md b/tutorials/README.md
@@ -1,1 +1,1 @@
-Tutorials and Exercises
+Project Dory content
